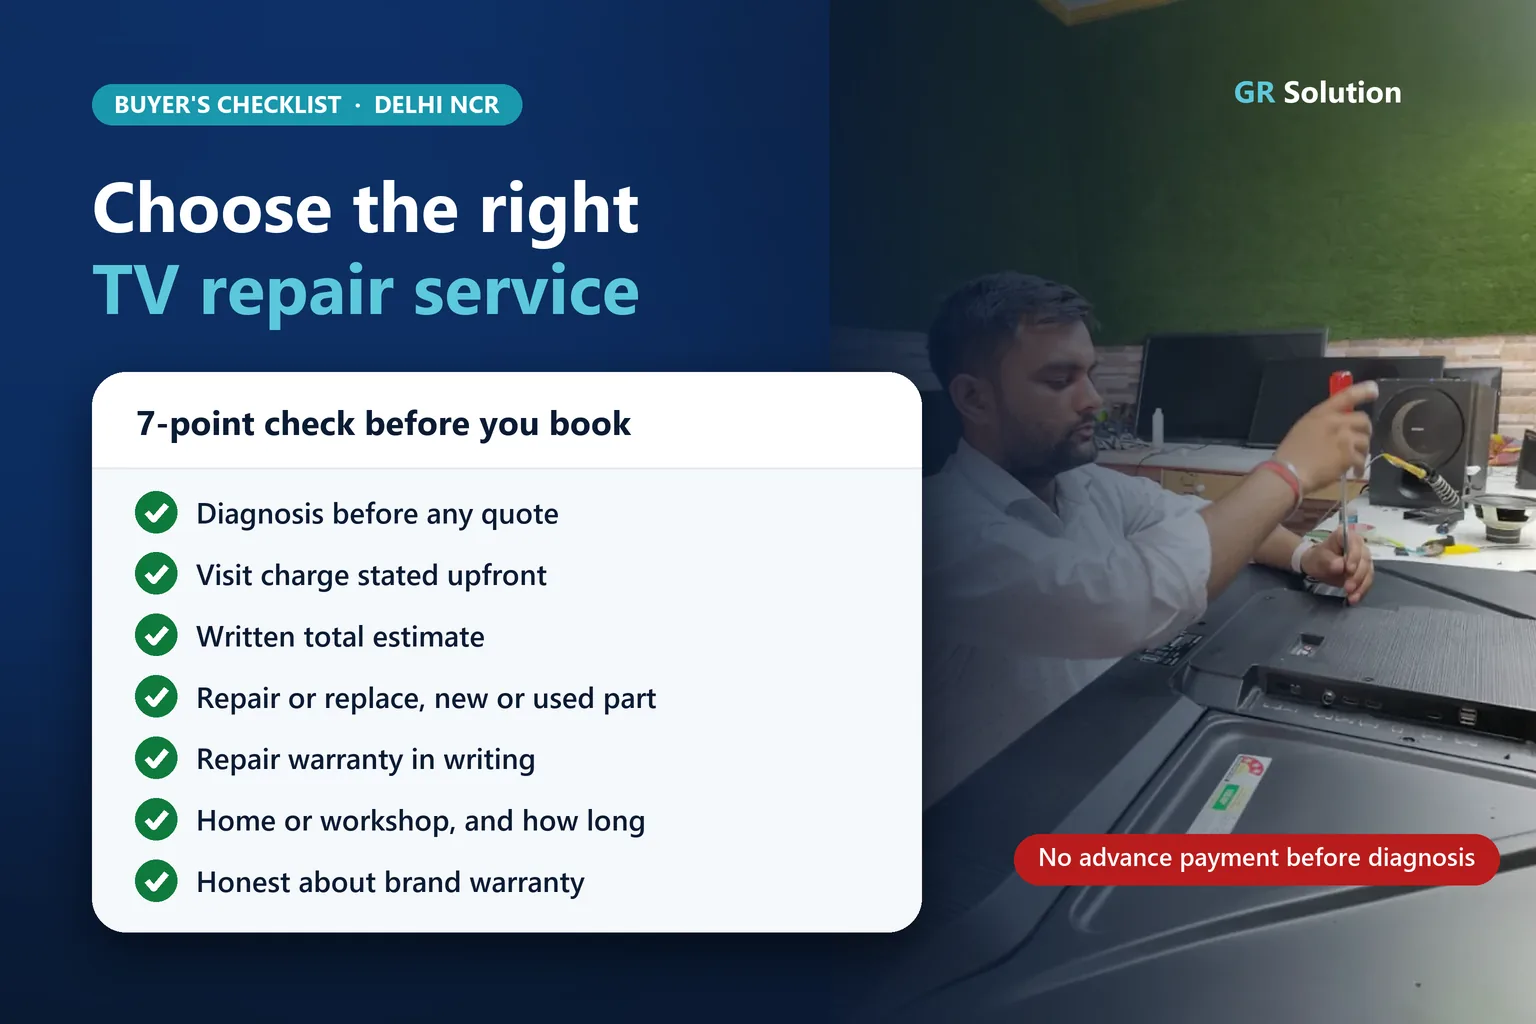
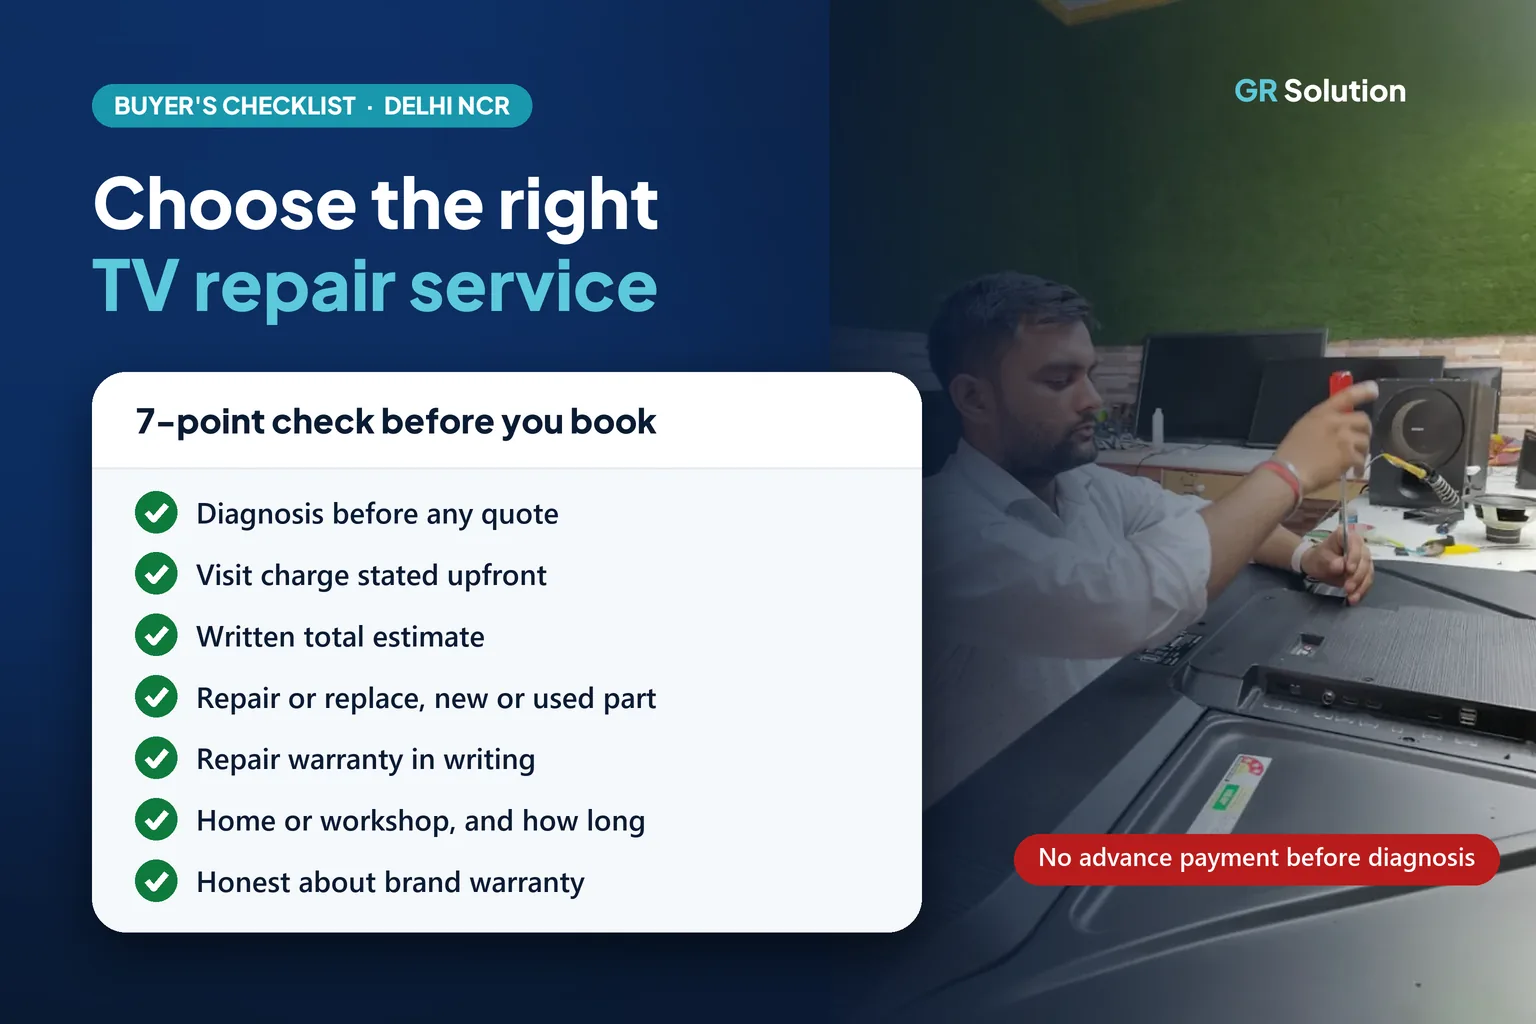
fix(security): Next.js 16.4.3 -> 16.4.6 (GHSA-mfr8-8qww-v76h); guides aligned to the design system
Security
- next and eslint-config-next 16.4.3 -> 16.4.6 (exact pins). Fixes
  GHSA-mfr8-8qww-v76h (moderate, 16.3.0-16.4.4: information disclosure across
  root params when a 'use cache' function is called through unstable_cache()).
  The site uses neither API; the upgrade clears the advisory and the build-time
  security stop. npm audit (production): 0 vulnerabilities.
- SEO/AIO/GEO proof: tools/seo-audit crawl of all 114 URLs on 16.4.3 vs 16.4.6
  with --approved none: 0 differences of any level (titles, metas, canonicals,
  robots, headings, links, images, JSON-LD, copy, sitemap, robots.txt,
  llms.txt, redirects). Lint clean, unit tests 36/36.

Design system (docs/design-system.md)
- Guide hero images: headings, badges and titles now use the site heading
  face, Plus Jakarta Sans 800 (converted from app/fonts by
  scripts/make-guide-heroes.py); labels stay on the system UI font, as body
  text does on the site. Navy/teal tokens unchanged.
- Blog section link lists: 48px tap targets (min-h-12, as the contact links).
  Class-only change; small tap targets on a 360px phone: new guides 20-22 -> 3-4,
  /blog/tv-motherboard-diagnosis 6 -> 3. No SEO-visible change.
- Service-centre guide H1 shortened to fit three lines on a 360px phone (new,
  unpublished page): "Authorised Service Centre or Local TV Repair?".
- Responsive audit (screenshots.mjs, 360-1440px): no horizontal scroll, CLS 0.

diff --git a/app/blog/[slug]/page.jsx b/app/blog/[slug]/page.jsx
@@ -191,9 +191,10 @@ export default async function BlogArticlePage({ params }) {
                       ) : null}
                       {section.closing ? <p className="mt-5">{section.closing}</p> : null}
                       {section.links?.length ? (
-                        <div className="mt-5 flex flex-wrap gap-x-5 gap-y-2">
+                        <div className="mt-5 flex flex-wrap gap-x-5">
                           {section.links.map((link) => (
-                            <Link key={link.href} href={link.href} className="text-link font-semibold">
+                            // min-h-12: 48px tap target, as on the contact links (docs/design-system.md).
+                            <Link key={link.href} href={link.href} className="text-link inline-flex min-h-12 items-center font-semibold">
                               {link.label}
                             </Link>
                           ))}

diff --git a/data/decisionGuides.js b/data/decisionGuides.js
@@ -30,7 +30,8 @@ export const decisionGuides = [
     excludeFromRelated: true,
     publishedAt: '2026-11-17',
     title: 'Authorised Service Centre vs Local TV Repair',
-    h1: 'Authorised Service Centre vs Local TV Repair: Which Should You Call?',
+    // Kept short so it fits in three lines on a 360px phone.
+    h1: 'Authorised Service Centre or Local TV Repair?',
     metaTitle: 'Service Centre vs Local TV Repair: Which Is Better? (2026)',
     metaDescription: 'Under warranty? Use the brand’s service centre. Out of warranty? Compare parts, total price and repair warranty first. Checklist and Delhi NCR prices.',
     category: 'DECISION GUIDE',

diff --git a/scripts/make-guide-heroes.py b/scripts/make-guide-heroes.py
@@ -2,9 +2,12 @@
 
 Built from GR Solution's real workshop photos plus on-brand graphics
 (colours from docs/design-system.md). Drawn at 2x and downscaled for smooth edges.
-usage: py -I scripts/make-guide-heroes.py .   (Windows: uses Segoe UI from C:/Windows/Fonts)
+usage: py -I scripts/make-guide-heroes.py .
+   Windows (Segoe UI from C:/Windows/Fonts). For the site heading font it needs
+   fontTools and brotli (pip install fonttools brotli); otherwise Segoe UI Bold.
 """
 import sys
+import tempfile
 from pathlib import Path
 from PIL import Image, ImageDraw, ImageFilter, ImageFont
 
@@ -25,11 +28,30 @@ MUTED = (71, 85, 105)
 GREEN = (15, 122, 61)
 
 FONTS = Path('C:/Windows/Fonts')
-def font(name, size):
-    return ImageFont.truetype(str(FONTS / name), size * S)
 
-BOLD = 'segoeuib.ttf'
-SEMI = 'seguisb.ttf'
+
+def _heading_font_path():
+    """The site's heading face (Plus Jakarta Sans 800, docs/design-system.md), converted
+    from app/fonts/*.woff2. Needs fontTools + brotli; falls back to Segoe UI Bold."""
+    ttf = Path(tempfile.gettempdir()) / 'gr-PlusJakartaSans-800.ttf'
+    if not ttf.exists():
+        try:
+            from fontTools.ttLib import TTFont
+            face = TTFont(str(ROOT / 'app' / 'fonts' / 'plus-jakarta-sans-latin-800-normal.woff2'))
+            face.flavor = None
+            face.save(str(ttf))
+        except Exception as error:  # noqa: BLE001 - any failure means "use the fallback"
+            print(f'Heading font unavailable ({error}); using Segoe UI Bold')
+            return FONTS / 'segoeuib.ttf'
+    return ttf
+
+
+HEAD = _heading_font_path()      # headings, badges, titles (site heading font)
+SEMI = FONTS / 'seguisb.ttf'     # labels and list text (Windows system UI font, as the site's body)
+
+
+def font(path, size):
+    return ImageFont.truetype(str(path), size * S)
 
 
 def cover(img, box_w, box_h, focus_x=0.5, focus_y=0.5):
@@ -93,7 +115,7 @@ def wrench_icon(draw, cx, cy, size, fill):
 
 
 def wordmark(draw, x, y, light=True):
-    f = font(BOLD, 30)
+    f = font(HEAD, 30)
     draw.text((x, y), 'GR', font=f, fill=TEAL300 if light else NAVY600)
     gw = draw.textlength('GR ', font=f)
     draw.text((x + gw, y), 'Solution', font=f, fill=WHITE if light else INK)
@@ -134,8 +156,8 @@ def hero_service_centre():
 
     pad = 92 * S
     # Eyebrow + headline.
-    pill(d, (pad, 92 * S), 'TV REPAIR DECISION GUIDE', font(BOLD, 24), TEAL400, WHITE)
-    head = font(BOLD, 74)
+    pill(d, (pad, 92 * S), 'TV REPAIR DECISION GUIDE', font(HEAD, 24), TEAL400, WHITE)
+    head = font(HEAD, 74)
     d.text((pad, 168 * S), 'Service centre', font=head, fill=WHITE)
     d.text((pad, 254 * S), 'or local repair?', font=head, fill=TEAL300)
 
@@ -148,7 +170,7 @@ def hero_service_centre():
     img.alpha_composite(card)
     d = ImageDraw.Draw(img)
     shield_icon(d, cx0 + 92 * S, cy0 + 100 * S, 52 * S, TEAL400, WHITE)
-    d.text((cx0 + 170 * S, cy0 + 58 * S), 'Brand service centre', font=font(BOLD, 38), fill=WHITE)
+    d.text((cx0 + 170 * S, cy0 + 58 * S), 'Brand service centre', font=font(HEAD, 34), fill=WHITE)
     d.text((cx0 + 170 * S, cy0 + 108 * S), 'Best while under warranty', font=font(SEMI, 26), fill=(205, 222, 240))
     rows = ['Keeps manufacturer warranty', 'Brand rates out of warranty', 'Visit charge as applicable']
     for i, row in enumerate(rows):
@@ -163,10 +185,10 @@ def hero_service_centre():
     ImageDraw.Draw(panel).rounded_rectangle((rx - 40 * S, 440 * S, W - 60 * S, 840 * S), radius=34 * S, fill=NAVY950 + (165,))
     img.alpha_composite(panel.filter(ImageFilter.GaussianBlur(6 * S)))
     d = ImageDraw.Draw(img)
-    tag_w, tag_h = pill(d, (rx, 470 * S), 'INDEPENDENT REPAIR', font(BOLD, 26), WHITE, NAVY950, pad_x=26, pad_y=14)
+    tag_w, tag_h = pill(d, (rx, 470 * S), 'INDEPENDENT REPAIR', font(HEAD, 26), WHITE, NAVY950, pad_x=26, pad_y=14)
     wrench_icon(d, rx + 30 * S, 600 * S, 38 * S, TEAL300)
-    d.text((rx + 90 * S, 572 * S), 'Worth comparing once', font=font(BOLD, 36), fill=WHITE)
-    d.text((rx + 90 * S, 618 * S), 'the warranty has ended', font=font(BOLD, 36), fill=WHITE)
+    d.text((rx + 90 * S, 572 * S), 'Worth comparing once', font=font(HEAD, 36), fill=WHITE)
+    d.text((rx + 90 * S, 618 * S), 'the warranty has ended', font=font(HEAD, 36), fill=WHITE)
     for i, row in enumerate(['Free diagnosis first', 'Written estimate before work']):
         y = 700 * S + i * 58 * S
         check_icon(d, rx + 30 * S, y + 18 * S, 17 * S, TEAL400, WHITE)
@@ -179,7 +201,7 @@ def hero_service_centre():
     img.alpha_composite(shadow.filter(ImageFilter.GaussianBlur(18 * S)))
     d = ImageDraw.Draw(img)
     d.ellipse((bx - br, by - br, bx + br, by + br), fill=WHITE, outline=TEAL400, width=8 * S)
-    vs = font(BOLD, 58)
+    vs = font(HEAD, 58)
     l, t, r, b = d.textbbox((0, 0), 'VS', font=vs)
     d.text((bx - (r - l) / 2 - l, by - (b - t) / 2 - t), 'VS', font=vs, fill=NAVY600)
 
@@ -207,8 +229,8 @@ def hero_checklist():
     d = ImageDraw.Draw(img)
 
     pad = 92 * S
-    pill(d, (pad, 84 * S), "BUYER'S CHECKLIST  ·  DELHI NCR", font(BOLD, 24), TEAL400, WHITE)
-    head = font(BOLD, 70)
+    pill(d, (pad, 84 * S), "BUYER'S CHECKLIST  ·  DELHI NCR", font(HEAD, 24), TEAL400, WHITE)
+    head = font(HEAD, 70)
     d.text((pad, 156 * S), 'Choose the right', font=head, fill=WHITE)
     d.text((pad, 238 * S), 'TV repair service', font=head, fill=TEAL300)
 
@@ -222,7 +244,7 @@ def hero_checklist():
     d.rounded_rectangle((cx0, cy0, cx1, cy1), radius=34 * S, fill=SURFACE)
     d.rounded_rectangle((cx0, cy0, cx1, cy0 + 96 * S), radius=34 * S, fill=WHITE)
     d.rectangle((cx0, cy0 + 60 * S, cx1, cy0 + 96 * S), fill=WHITE)
-    d.text((cx0 + 44 * S, cy0 + 26 * S), '7-point check before you book', font=font(BOLD, 34), fill=INK)
+    d.text((cx0 + 44 * S, cy0 + 26 * S), '7-point check before you book', font=font(HEAD, 34), fill=INK)
     d.line((cx0, cy0 + 96 * S, cx1, cy0 + 96 * S), fill=(226, 232, 240), width=2 * S)
 
     items = [
